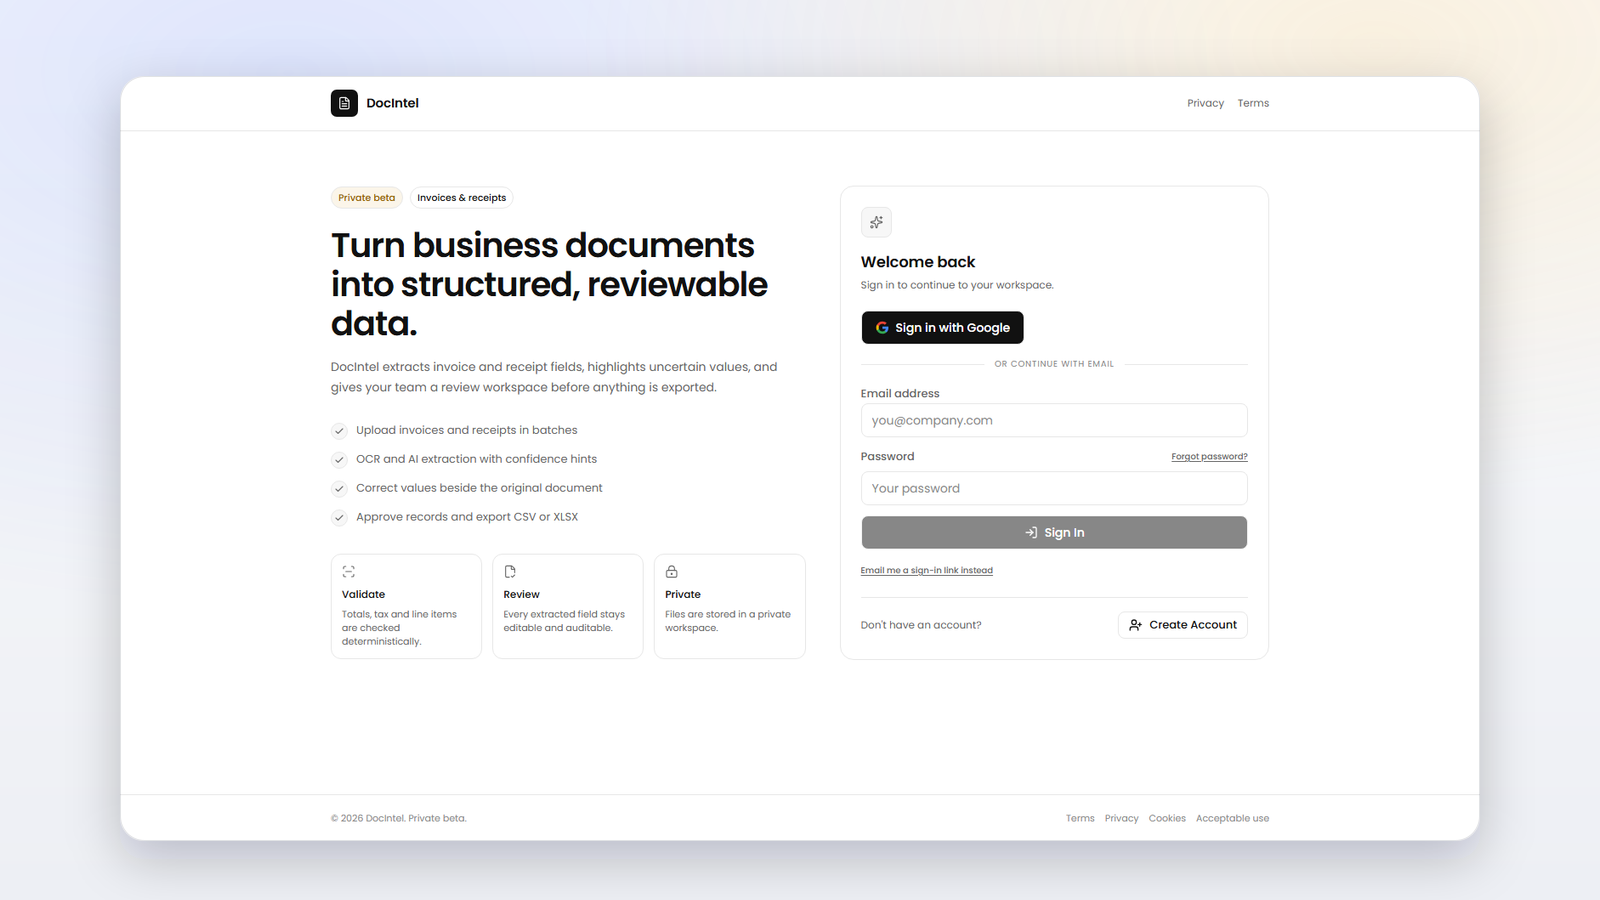
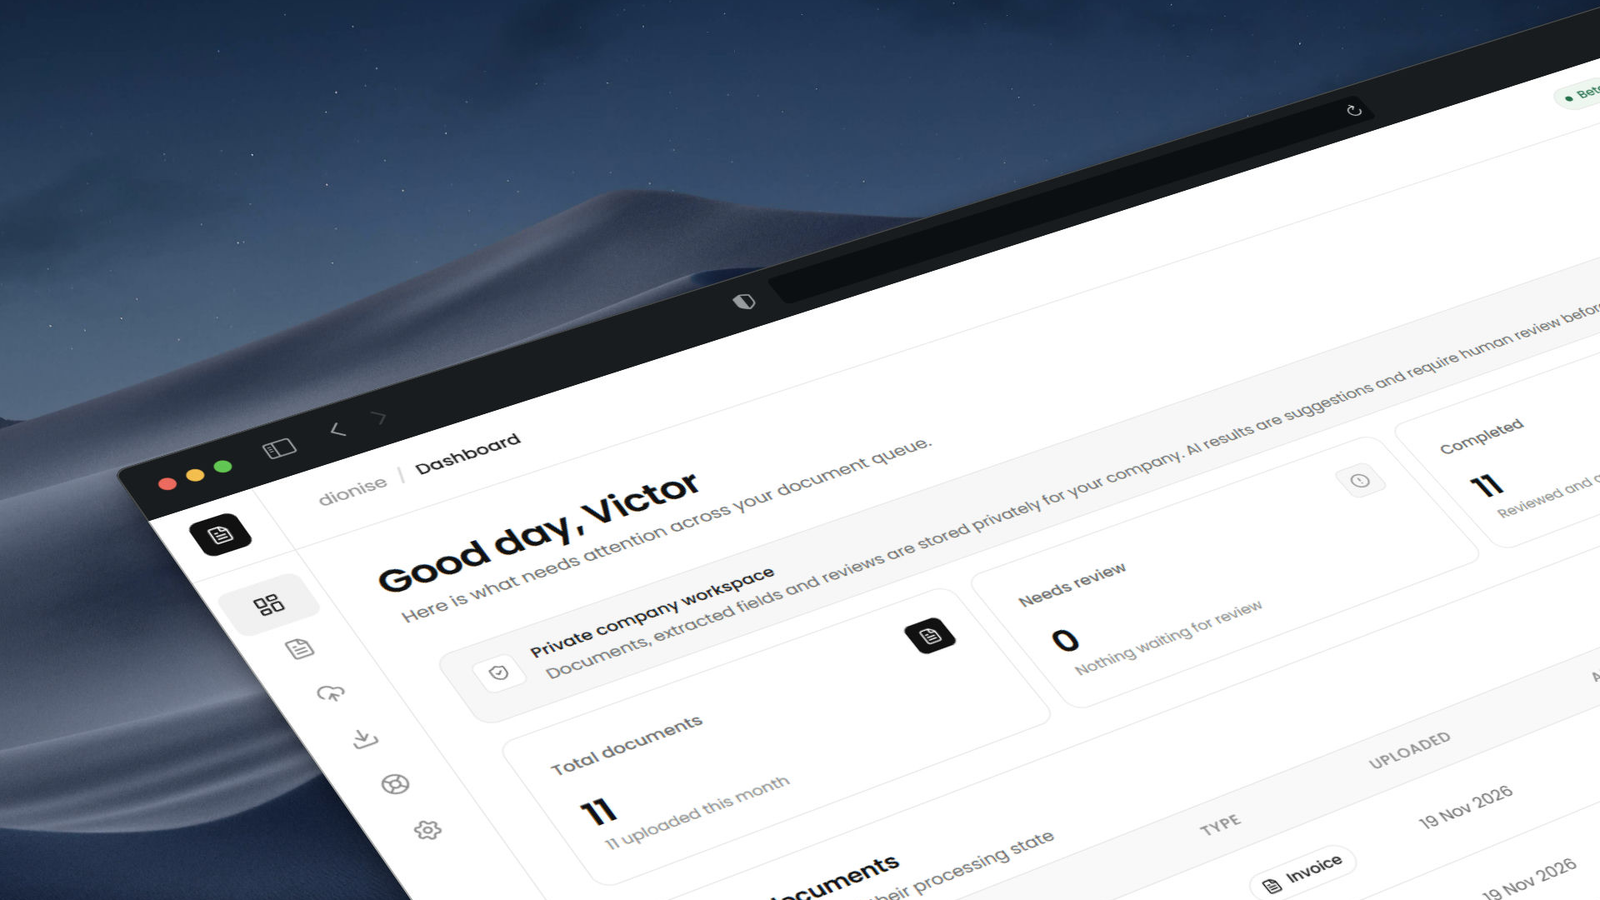
Move DocIntel into a separate showcase and use the product mockup cover

diff --git a/src/components/ShowcaseSection.tsx b/src/components/ShowcaseSection.tsx
@@ -1,0 +1,124 @@
+'use client';
+
+import { motion } from 'framer-motion';
+import Image from 'next/image';
+import Link from 'next/link';
+import { ArrowUpRight, ExternalLink } from 'lucide-react';
+import type { ProjectData } from '@/types/project';
+import { SectionHeading } from '@/components/ui/SectionHeading';
+import { ButtonLink } from '@/components/ui/Button';
+
+/**
+ * A separate shelf for things that are not client or shipped project work —
+ * early builds and experiments in progress. Currently showcases DocIntel.
+ */
+export function ShowcaseSection({ project }: { project: ProjectData }) {
+  const live = project.links.find((link) => link.type === 'live');
+  const caseStudyHref = `/showcase/${project.slug}`;
+
+  return (
+    <motion.section
+      id="lab"
+      initial="hidden"
+      whileInView="show"
+      viewport={{ once: true, margin: '-50px' }}
+      variants={{ hidden: {}, show: { transition: { staggerChildren: 0.08 } } }}
+      className="mb-20 scroll-mt-28"
+    >
+      <motion.div
+        variants={{
+          hidden: { opacity: 0, y: 20 },
+          show: { opacity: 1, y: 0, transition: { duration: 0.5 } },
+        }}
+        className="mb-6"
+      >
+        <SectionHeading title="In the Lab" eyebrow="Currently building" />
+      </motion.div>
+
+      <motion.div
+        variants={{
+          hidden: { opacity: 0, y: 24 },
+          show: { opacity: 1, y: 0, transition: { duration: 0.6, ease: [0.22, 1, 0.36, 1] } },
+        }}
+        className="overflow-hidden rounded-[2rem] bg-[#0F1115] text-white shadow-ios-lg"
+      >
+        <div className="grid gap-8 p-6 sm:p-10 lg:grid-cols-[1.02fr_1fr] lg:items-center lg:gap-12 lg:p-12">
+          <div className="min-w-0">
+            <div className="mb-6 flex flex-wrap items-center gap-2.5">
+              <span className="inline-flex items-center gap-2 rounded-full bg-white/[0.07] px-3 py-1.5 text-[11px] font-medium uppercase tracking-[0.16em] text-white/70 ring-1 ring-inset ring-white/10">
+                <span className="relative flex size-2">
+                  <span className="absolute inline-flex h-full w-full animate-ping rounded-full bg-amber-400 opacity-75" />
+                  <span className="relative inline-flex size-2 rounded-full bg-amber-400" />
+                </span>
+                In development
+              </span>
+              <span className="rounded-full border border-white/10 px-3 py-1.5 text-[11px] font-medium uppercase tracking-[0.16em] text-white/40">
+                MVP
+              </span>
+            </div>
+
+            <h3 className="text-4xl font-semibold tracking-tight sm:text-5xl">
+              {project.title}
+            </h3>
+            <p className="mt-2 text-lg text-white/80">{project.subtitle}</p>
+            <p className="mt-4 max-w-xl leading-relaxed text-white/55">
+              {project.overview}
+            </p>
+
+            <div className="mt-6 flex flex-wrap gap-2">
+              {project.techStack.slice(0, 4).map((tech) => (
+                <span
+                  key={tech.name}
+                  className="rounded-full bg-white/[0.06] px-2.5 py-1 text-[11px] font-medium text-white/60"
+                >
+                  {tech.name}
+                </span>
+              ))}
+            </div>
+
+            <div className="mt-8 flex flex-wrap items-center gap-3">
+              <ButtonLink href={caseStudyHref} variant="light" className="gap-2">
+                Read the case study
+                <ArrowUpRight className="size-4" />
+              </ButtonLink>
+              {live && (
+                <a
+                  href={live.url}
+                  target="_blank"
+                  rel="noopener noreferrer"
+                  className="inline-flex items-center gap-2 rounded-full px-4 py-3 text-sm font-semibold text-white/75 transition-colors hover:bg-white/[0.06] hover:text-white"
+                >
+                  <ExternalLink className="size-4" />
+                  {live.label}
+                </a>
+              )}
+            </div>
+          </div>
+
+          <Link
+            href={caseStudyHref}
+            aria-label={`View the ${project.title} case study`}
+            className="group relative block overflow-hidden rounded-2xl border border-white/10 bg-white/[0.04] focus-visible:outline-none focus-visible:ring-2 focus-visible:ring-white/40"
+          >
+            <div className="relative aspect-[16/10]">
+              <Image
+                src={project.coverImage}
+                alt={`${project.title} — ${project.subtitle}`}
+                fill
+                className="object-cover transition-transform duration-700 ease-out group-hover:scale-[1.03]"
+                sizes="(max-width: 1024px) 100vw, 45vw"
+              />
+            </div>
+            <span className="pointer-events-none absolute inset-x-0 bottom-0 flex items-center justify-between gap-3 bg-gradient-to-t from-black/70 to-transparent px-4 pb-3 pt-10 text-xs font-medium text-white/80">
+              Product showcase
+              <span className="inline-flex items-center gap-1 text-white">
+                Case study
+                <ArrowUpRight className="size-3.5 transition-transform duration-200 group-hover:translate-x-0.5 group-hover:-translate-y-0.5" />
+              </span>
+            </span>
+          </Link>
+        </div>
+      </motion.div>
+    </motion.section>
+  );
+}

diff --git a/src/app/showcase/docintel/page.tsx b/src/app/showcase/docintel/page.tsx
@@ -1,0 +1,68 @@
+import type { Metadata } from 'next';
+import Link from 'next/link';
+import { notFound } from 'next/navigation';
+import { ArrowUpRight } from 'lucide-react';
+import { getProject } from '@/lib/projects';
+import { buildStudyDoc } from '@/lib/projectStudyDoc';
+import { pageMetadata } from '@/lib/seo';
+import { JsonLd } from '@/components/JsonLd';
+import { breadcrumbSchema } from '@/lib/schema';
+import { StudyDocCaseStudy } from '@/components/StudyDocCaseStudy';
+import { SiteFooter } from '@/components/SiteFooter';
+import { BackToTop } from '@/components/BackToTop';
+import { defaultProfile } from '@/data/profile';
+
+export const metadata: Metadata = pageMetadata({
+  title: 'DocIntel — AI Document Intelligence Case Study',
+  description:
+    'DocIntel is an AI-powered document intelligence platform that turns invoices and receipts into structured, reviewable data. An early-stage product design and AI case study by Victor Omolasoye.',
+  path: '/showcase/docintel',
+  image: '/images/projects/docintel/cover.png',
+  imageAlt: 'DocIntel — AI document intelligence for invoices and receipts',
+  keywords: [
+    'DocIntel',
+    'AI document intelligence',
+    'document extraction case study',
+    'invoice extraction',
+    'receipt processing',
+    'product design case study',
+  ],
+});
+
+export default function DocIntelShowcasePage() {
+  const project = getProject('docintel');
+
+  if (!project) {
+    notFound();
+  }
+
+  return (
+    <>
+      <JsonLd
+        data={breadcrumbSchema([
+          { name: 'Home', path: '/' },
+          { name: 'Showcase', path: '/showcase/docintel' },
+          { name: project.title, path: '/showcase/docintel' },
+        ])}
+      />
+      <main className="min-h-screen bg-white font-ios text-ios-ink">
+        <article className="mx-auto max-w-7xl px-6 py-12 sm:px-8 lg:px-12">
+          <Link
+            href="/#lab"
+            className="mb-10 inline-flex items-center gap-2 text-sm text-ios-ink transition-colors hover:text-ios-electric"
+          >
+            <ArrowUpRight className="size-4 rotate-180" />
+            Back to showcase
+          </Link>
+
+          <StudyDocCaseStudy
+            project={project}
+            doc={project.studyDoc ?? buildStudyDoc(project)}
+          />
+        </article>
+        <SiteFooter profile={defaultProfile} />
+        <BackToTop />
+      </main>
+    </>
+  );
+}

diff --git a/src/components/HomeContent.tsx b/src/components/HomeContent.tsx
@@ -11,6 +11,7 @@ import type { ProjectData } from '@/types/project';
 import { ProjectCard } from '@/components/ProjectCard';
 import { PersonalProjectCard } from '@/components/PersonalProjectCard';
 import { HeroCoverCarousel } from '@/components/HeroCoverCarousel';
+import { ShowcaseSection } from '@/components/ShowcaseSection';
 import { projectInCategory } from '@/lib/projectCategories';
 import { BackToTop } from '@/components/BackToTop';
 import { Nav } from '@/components/Nav';
@@ -286,7 +287,13 @@ function PersonalProjectsSection({ projects }: { projects: ProjectData[] }) {
   );
 }
 
-export function HomeContent({ projects }: { projects: ProjectData[] }) {
+export function HomeContent({
+  projects,
+  showcase,
+}: {
+  projects: ProjectData[];
+  showcase?: ProjectData | null;
+}) {
   const profile = usePortfolio();
 
   return (
@@ -296,6 +303,7 @@ export function HomeContent({ projects }: { projects: ProjectData[] }) {
         <HeroSection profile={profile} projects={projects} />
         <div className="mx-auto max-w-7xl px-6 py-6 sm:py-8 sm:px-8 lg:px-12">
           <ProjectsSection projects={projects} />
+          {showcase && <ShowcaseSection project={showcase} />}
           <PersonalProjectsSection projects={projects} />
         </div>
         <AboutCta profile={profile} />

diff --git a/src/app/sitemap.ts b/src/app/sitemap.ts
@@ -7,11 +7,16 @@ import { absoluteUrl } from '@/lib/seo';
 export default function sitemap(): MetadataRoute.Sitemap {
   const dir = path.join(process.cwd(), 'data', 'projects');
   let projectSlugs: string[] = [];
+  let showcaseSlugs: string[] = [];
   try {
-    projectSlugs = fs
-      .readdirSync(dir)
-      .filter((f) => f.endsWith('.json'))
-      .map((f) => f.replace(/\.json$/, ''));
+    const files = fs.readdirSync(dir).filter((f) => f.endsWith('.json'));
+    for (const file of files) {
+      const raw = fs.readFileSync(path.join(dir, file), 'utf-8');
+      const project = JSON.parse(raw) as { showcase?: boolean };
+      const slug = file.replace(/\.json$/, '');
+      if (project.showcase) showcaseSlugs.push(slug);
+      else projectSlugs.push(slug);
+    }
   } catch {}
 
   const posts = getAllBlogPosts();
@@ -65,6 +70,12 @@ export default function sitemap(): MetadataRoute.Sitemap {
       lastModified: now,
       changeFrequency: 'monthly' as const,
       priority: 0.7,
+    })),
+    ...showcaseSlugs.map((slug) => ({
+      url: absoluteUrl(`/showcase/${slug}`),
+      lastModified: now,
+      changeFrequency: 'monthly' as const,
+      priority: 0.75,
     })),
     ...posts.map((post) => ({
       url: absoluteUrl(`/blog/${post.slug}`),

diff --git a/src/app/page.tsx b/src/app/page.tsx
@@ -2,7 +2,7 @@ import type { Metadata } from 'next';
 import { PortfolioProvider } from '@/context/PortfolioContext';
 import { HomeContent } from '@/components/HomeContent';
 import { JsonLd } from '@/components/JsonLd';
-import { getAllProjects } from '@/lib/projects';
+import { getAllProjects, getProject } from '@/lib/projects';
 import { pageMetadata, site } from '@/lib/seo';
 import { faqSchema } from '@/lib/schema';
 import { defaultProfile } from '@/data/profile';
@@ -15,11 +15,12 @@ export const metadata: Metadata = pageMetadata({
 
 export default function HomePage() {
   const projects = getAllProjects();
+  const showcase = getProject('docintel');
   return (
     <>
       <JsonLd data={faqSchema(defaultProfile.faqs)} />
       <PortfolioProvider>
-        <HomeContent projects={projects} />
+        <HomeContent projects={projects} showcase={showcase} />
       </PortfolioProvider>
     </>
   );

diff --git a/src/types/project.ts b/src/types/project.ts
@@ -225,6 +225,8 @@ export interface ProjectData {
   /** Extra tracks this project belongs to, e.g. work that sits in both brand and product. */
   categories?: ProjectCategory[];
   personal?: boolean;
+  /** Showcased separately ("In the Lab") instead of in the project listings. */
+  showcase?: boolean;
   /** When true, the project is pinned to the top of its category on the projects page. */
   featured?: boolean;
   /** Sort order among featured projects (lower comes first). */

diff --git a/src/lib/projects.ts b/src/lib/projects.ts
@@ -13,6 +13,7 @@ export function getAllProjects(): ProjectData[] {
         const raw = fs.readFileSync(path.join(projectsDir, f), 'utf-8');
         return JSON.parse(raw) as ProjectData;
       })
+      .filter((project) => !project.showcase)
       .sort((a, b) => {
         const aComing = !a.period || a.subtitle === 'Project Coming Soon';
         const bComing = !b.period || b.subtitle === 'Project Coming Soon';

diff --git a/next.config.ts b/next.config.ts
@@ -6,6 +6,15 @@ const nextConfig: NextConfig = {
     minimumCacheTTL: 2592000,
     deviceSizes: [360, 480, 640, 750, 828, 1080, 1200, 1920, 2048],
   },
+  async redirects() {
+    return [
+      {
+        source: '/projects/docintel',
+        destination: '/showcase/docintel',
+        permanent: true,
+      },
+    ];
+  },
   async headers() {
     return [
       {
